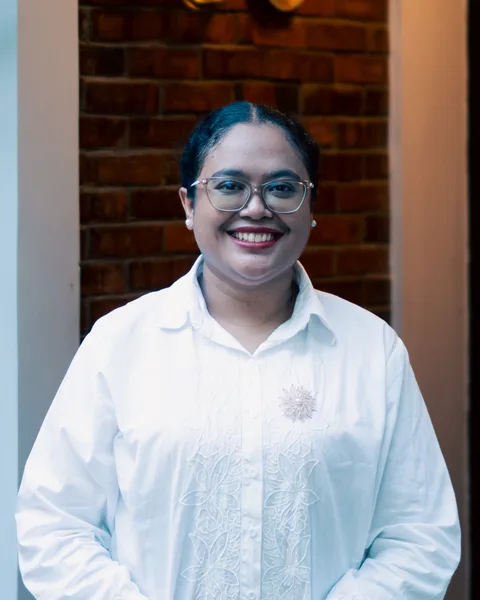
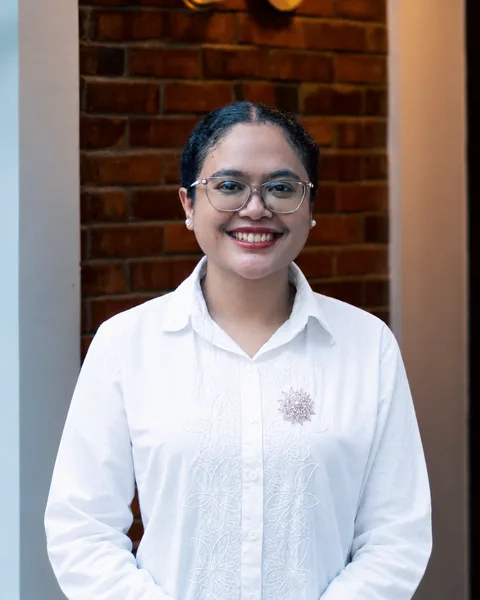
New bride portrait; drawn couple portrait as the last row of Our Moment

diff --git a/index.html b/index.html
@@ -338,6 +338,9 @@ nav.bottom a.active{background:rgba(240,220,180,.22)}
 .g-item.tall{grid-row:span 2}
 .g-item.wide{grid-column:span 2;grid-row:span 2}
 .g-item.feature{grid-column:span 2;grid-row:span 4}
+/* the drawn portrait is shown whole on white instead of cropped like the photos */
+.g-item.art{grid-column:span 2;grid-row:span 2}
+.g-item.art img{object-fit:contain;background:#fff}
 .g-item:first-child{border-radius:120px 120px 14px 14px}
 .g-item:first-child img{border-radius:116px 116px 10px 10px}
 .lightbox{position:fixed;inset:0;z-index:200;display:flex;align-items:center;justify-content:center;padding:60px 12px;background:rgba(30,20,14,.92);animation:lbIn .35s ease both}
@@ -573,6 +576,7 @@ nav.bottom svg{width:20px;height:20px}
       <button type="button" class="g-item tall" data-anim="left"><img src="img/gallery/g10.webp" alt="Agatha dan Muji menggendong ayam di Kandang Gadri" loading="lazy" decoding="async"></button>
       <button type="button" class="g-item tall" data-anim="right"><img src="img/gallery/g9.webp" alt="Agatha dan Muji di depan candi" loading="lazy" decoding="async"></button>
       <button type="button" class="g-item wide" data-anim="up"><img src="img/gallery/g12.webp" alt="Agatha dan Muji dengan sekeranjang telur di Kandang Gadri" loading="lazy" decoding="async"></button>
+      <button type="button" class="g-item art" data-anim="up"><img src="img/gallery/g13.webp" alt="Ilustrasi Muji dan Agatha bersama ayam Kandang Gadri" loading="lazy" decoding="async"></button>
     </div>
   </section>
   <div class="ukir-band"></div>
